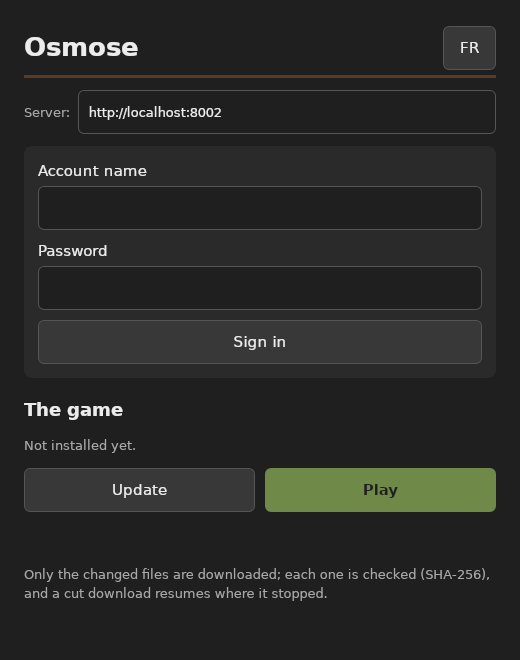
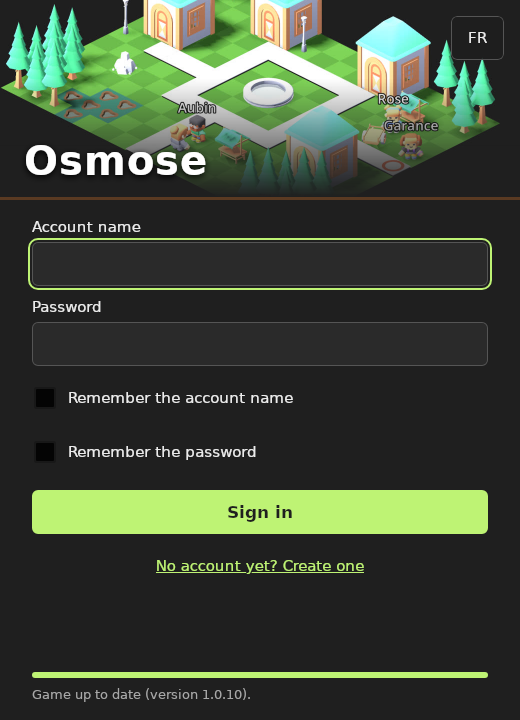
docs(rpg): sprint 51 done, the launcher's page, picture and decision (T20)

diff --git a/projects/rpg/README.md b/projects/rpg/README.md
@@ -4,7 +4,7 @@
 
 Un RPG tactique au tour par tour, dans l'esprit de Dofus et de Wakfu, écrit de zéro : aucun code, aucun nom, aucune image d'Ankama (D54). Six sprints : les règles du combat (sprint 45, ce dossier), le combat isométrique dans Godot 4 (46), le serveur de comptes et de personnages (47), la création de personnage (48), la ville d'accueil et ses PNJ (49), le launcher en Rust et les exécutables (50). Solo d'abord ; le multijoueur viendra plus tard, sur ces mêmes règles.
 
-*A turn-based tactical RPG in the style of Dofus and Wakfu, written from scratch. Sprint 50: a Rust launcher (Tauri) that signs in, updates the game file by file from a versioned SHA-256 manifest, resumes cut downloads with HTTP ranges and starts the game with the token; unsigned packages for Windows, macOS and Linux built by the CI; a video and an architecture diagram on the project page. Sprint 49: a welcome town built from Kenney's Fantasy Town Kit, walked with a click along the shortest path, three inhabitants with bilingual dialogues and choices described in data, the character's place saved on the server, a gate to a training fight. Sprint 48: character creation with three classes described in data (characteristics and spells, balanced by simulation), twelve looks and seven outfit colours (a palette shader), checked by the server. Sprint 47: an ASP.NET Core server for accounts and characters (JWT, PBKDF2 password hashes, rate limit, EF Core and PostgreSQL, OpenAPI, Docker), and the game's login and character screen, tested end to end against it, with an offline mode. Sprint 46: a Godot 4 C# desktop client (isometric 3D board, Kenney's free animated models, mouse and keyboard play against the AI, a self-test that plays a whole fight through the controls, builds for Windows, macOS and Linux). Sprint 45: the combat rules in a deterministic C# library (isometric grid, action and movement points, A* paths, exact line of sight, spells, initiative, an AI), described by data files, recorded fights that replay roll for roll on Linux, Windows and macOS, and a terminal simulator.*
+*A turn-based tactical RPG in the style of Dofus and Wakfu, written from scratch. Sprint 51: the launcher redone: it updates the game by itself, an account name, a password and "Sign in" (which starts the game), remembering the name and the password (in the system's credential store), sign-up, the server hidden, a banner of the village. Sprint 50: a Rust launcher (Tauri) that signs in, updates the game file by file from a versioned SHA-256 manifest, resumes cut downloads with HTTP ranges and starts the game with the token; unsigned packages for Windows, macOS and Linux built by the CI; a video and an architecture diagram on the project page. Sprint 49: a welcome town built from Kenney's Fantasy Town Kit, walked with a click along the shortest path, three inhabitants with bilingual dialogues and choices described in data, the character's place saved on the server, a gate to a training fight. Sprint 48: character creation with three classes described in data (characteristics and spells, balanced by simulation), twelve looks and seven outfit colours (a palette shader), checked by the server. Sprint 47: an ASP.NET Core server for accounts and characters (JWT, PBKDF2 password hashes, rate limit, EF Core and PostgreSQL, OpenAPI, Docker), and the game's login and character screen, tested end to end against it, with an offline mode. Sprint 46: a Godot 4 C# desktop client (isometric 3D board, Kenney's free animated models, mouse and keyboard play against the AI, a self-test that plays a whole fight through the controls, builds for Windows, macOS and Linux). Sprint 45: the combat rules in a deterministic C# library (isometric grid, action and movement points, A* paths, exact line of sight, spells, initiative, an AI), described by data files, recorded fights that replay roll for roll on Linux, Windows and macOS, and a terminal simulator.*
 
 ## Les règles
 - **Le plateau** est une grille de cases dessinées en losanges (vue isométrique). On se déplace vers l'une des quatre cases qui partagent un côté ; toutes les distances se comptent en pas, donc une portée dessine un losange autour du lanceur. Trois terrains : le sol, les obstacles (ni passage ni vue) et les trous (pas de passage, mais les sorts passent au-dessus).
@@ -31,7 +31,7 @@ godot --path godot -- --lang fr            # options : --server URL, --offline, 
 ```
 Le jeu s'ouvre sur l'écran de connexion : créer un compte ou se connecter, puis créer un personnage (un nom, l'une des 12 apparences, une classe et l'une des 7 couleurs de tenue ; le modèle, repeint, tourne à côté du formulaire) et le choisir. On arrive au village de Clairval : un clic fait marcher par le plus court chemin (montré en jaune), un clic sur un habitant y mène et ouvre la conversation (réponses au clic ou aux touches 1 à 4), la porte est et Garance mènent au combat d'entraînement ; à la fin du combat, « Retour en ville », et « Personnages » ramène à la liste. Sans serveur, « Jouer hors ligne » mène au village avec l'héroïne du scénario. Ou sans rien installer : les exécutables Windows, macOS et Linux produits par la CI (artefacts du workflow `rpg`, non signés : Windows et macOS avertissent au premier lancement).
 
-**Le launcher** (`launcher/`, Rust et Tauri) : paquets `rpg-launcher-*` des artefacts de la CI (`.deb` et AppImage, installeur Windows, `.dmg`), non signés eux aussi. Il se connecte au serveur, compare le jeu installé au manifeste publié (taille et SHA-256 de chaque fichier), ne télécharge que les fichiers modifiés, reprend un téléchargement coupé, vérifie chaque fichier avant de remplacer l'ancien, puis lance le jeu avec le jeton (variables `RPG_SERVER` et `RPG_TOKEN` : le jeu s'ouvre directement sur les personnages). Pour publier une version en local :
+**Le launcher** (`launcher/`, Rust et Tauri) : paquets `rpg-launcher-*` des artefacts de la CI (`.deb` et AppImage, installeur Windows, `.dmg`), éditeur « Osmose Team », non signés eux aussi. À l'ouverture, il met le jeu à jour tout seul : il compare le jeu installé au manifeste publié (taille et SHA-256 de chaque fichier), ne télécharge que les fichiers modifiés, reprend un téléchargement coupé et vérifie chaque fichier. La fenêtre ne demande que le nom de compte et le mot de passe : « Se connecter » attend la fin de la mise à jour puis lance le jeu avec le jeton (variables `RPG_SERVER` et `RPG_TOKEN` : le jeu s'ouvre directement sur les personnages). Deux cases mémorisent le nom (fichier `launcher.json` du dossier de configuration) et le mot de passe (gestionnaire d'identifiants de Windows, trousseau de macOS, Secret Service sous Linux ; jamais dans un fichier). Un lien permet de créer un compte. L'adresse du serveur n'est plus affichée : `RPG_SERVER`, ou `"server"` dans `launcher.json`, la change. Pour publier une version en local :
 ```sh
 godot --headless --path godot --export-release Linux               # dans godot/build/linux
 cargo run --manifest-path launcher/Cargo.toml -p rpg-launcher-core --bin rpg-manifest -- godot/build/linux 1.0.0
@@ -93,6 +93,8 @@ scripts/smoke.sh http://localhost:8002     # contre docker compose : de l'inscri
 La clé qui signe les jetons vient de `Jwt__Key` (base64, 32 octets, variable d'environnement ; `RPG_JWT_KEY` pour docker compose). Sans clé, le serveur en tire une au démarrage, et les jetons ne survivent pas à un redémarrage.
 
 ## Tests
+Sprint 51 : 7 tests Rust de plus (rien n'est mémorisé sans le demander, le nom et le mot de passe reviennent et le mot de passe mémorisé suffit, décocher oublie, un autre compte fait oublier le premier, un mauvais mot de passe ne mémorise rien, un gestionnaire d'identifiants verrouillé n'empêche pas de jouer, l'inscription et ses refus, l'ordre de choix du serveur) ; 2 tests Playwright de la page du launcher, sur les cinq navigateurs, avec un faux Tauri (mise à jour dès l'ouverture, cases pré-cochées, refus traduits, mot de passe vérifié sur la page avant l'inscription, « Se connecter » qui attend la mise à jour puis lance, les deux langues, tout tient dans la fenêtre).
+
 Sprint 50 : 13 tests Rust (`cargo test`) : premier téléchargement complet puis plus rien, seuls les fichiers modifiés ensuite et les anciens retirés, fichier abîmé sur le disque retéléchargé, téléchargement coupé repris là où il s'était arrêté (avec un serveur qui ignore la reprise aussi), fichier qui ne correspond pas à son empreinte jamais installé, manifeste qui tenterait d'écrire hors du dossier refusé, exécutable rendu exécutable, progression, et contre un vrai serveur HTTP : reprise par `Range` (206), connexion et ses refus, jeton passé par l'environnement ; clippy au niveau `all`, avertissements bloquants. 3 tests du serveur (fichiers servis avec reprise, rien hors du dossier, jeton du launcher). Dans la CI : le launcher compilé, testé et empaqueté sur les trois systèmes ; puis, de bout en bout, l'export Linux du jeu publié par docker compose, installé par `rpg-update`, mis à jour sans rien télécharger, réparé après un fichier abîmé, et qui joue un combat entier depuis le dossier installé. Playwright : la fiche (vidéo, schéma, capture du launcher) sur les cinq navigateurs, avec axe.
 
 Sprint 49 : 4 tests de plus dans `Rpg.Core` (le village cohérent, la carte lue depuis ses lignes, villes et dialogues incohérents refusés : maison incomplète, habitant emmuré, porte vers un combat inconnu, réplique inatteignable, boucle sans fin), 7 dans `Rpg.Client` (chemin le plus court autour des maisons et de l'eau, clic sur un habitant jusqu'à son côté le plus proche, conversation, porte et Garance vers le combat, retour à la position gardée, tour complet du village), 2 du serveur (position gardée si l'on peut y marcher, réponse sans champ calculé). Dans la CI, sur les trois systèmes, `--town-selftest` parle à chaque habitant, vérifie que chaque réplique et ses réponses sont celles à l'écran, passe la porte et joue le combat ; contre le serveur, `--lobby-selftest` fait tout le chemin (inscription, personnage, village, position enregistrée et relue sur le serveur, combat). 3 mutations, 3 attrapées (la troisième après un test ajouté).

diff --git a/projects/rpg/DECISIONS.md b/projects/rpg/DECISIONS.md
@@ -105,3 +105,9 @@ Le choix du projet et de sa pile (Godot 4 en C#, règles partagées, ASP.NET Cor
 **Choix :** « Osmose » est le nom visible partout : titre de l'écran de connexion, fenêtre et paquets du launcher, application Godot (fenêtre, `.app` sur macOS), API (OpenAPI), fiche du portfolio (« Osmose, RPG tactique »). Les identifiants internes ne changent pas (dossier `projects/rpg`, `Rpg.Core`, exécutables `rpg.x86_64` et `rpg.exe`, routes de l'API).
 **Pourquoi :** renommer les identifiants casserait les chemins, les workflows et les enregistrements de combats sans rien apporter au joueur.
 **Éditeur (choix de Charles) :** « Osmose Team » comme éditeur et titulaire du copyright, dans l'installeur et les paquets du launcher (Tauri `publisher`, `copyright`) et dans les métadonnées des exécutables du jeu (Windows : société, description, copyright ; macOS : copyright). Ce n'est pas une signature : Windows (SmartScreen) et macOS (Gatekeeper) avertissent toujours au premier lancement. Une signature reconnue demanderait un certificat délivré à une identité vérifiée (Azure Trusted Signing ou certificat OV pour Windows, compte Apple Developer pour macOS), au nom de la personne ou de la structure vérifiée ; écartée pour l'instant.
+
+## T20. Le launcher refait : se connecter, c'est jouer (sprint 51, d'après le questionnaire de Charles)
+**Choix :** la mise à jour se lance d'elle-même à l'ouverture ; la fenêtre se réduit au nom de compte, au mot de passe et à « Se connecter », qui attend la fin de la mise à jour et lance le jeu ; l'inscription est un second mode du même formulaire (avec confirmation du mot de passe). Le nom mémorisé va dans `launcher.json` (dossier de configuration), le mot de passe dans le gestionnaire d'identifiants du système (crate `keyring` : Credential Manager, Keychain, Secret Service), jamais dans un fichier ni dans la page : un champ vide signifie « le mot de passe mémorisé », et c'est Rust qui le lit. Un gestionnaire verrouillé ou absent n'empêche pas de jouer : la page le signale. L'adresse du serveur sort de l'interface (`RPG_SERVER` ou `launcher.json`).
+**Pourquoi :** Charles trouvait « Mettre à jour », « Se connecter » et « Jouer » redondants, et le serveur inutile à montrer ; mémoriser un mot de passe en clair serait une faute.
+**Alternatives :** chiffrer le mot de passe dans un fichier avec une clé du launcher (la clé serait dans le programme : aucune protection réelle) ; un jeton de longue durée à la place du mot de passe (mieux, mais il faut un mécanisme de rafraîchissement côté serveur : à prévoir avec le multijoueur).
+**Limites :** sous Linux, il faut un Secret Service (GNOME Keyring, KWallet) ; sans lui, le mot de passe ne peut pas être mémorisé (le nom, si).

diff --git a/projects/rpg/REVIEW.md b/projects/rpg/REVIEW.md
@@ -18,6 +18,8 @@ Claude y ajoute aussi ses constats au fil de l'eau, préfixés « (Claude) » ; 
 
 > Cases cochées par Claude le 9 octobre 2026, à la demande explicite de Charles (« tout marche, tu peux valider »), pour les sprints 45 à 50 (règles, client Godot, serveur, création de personnage, village, launcher et fiche), après son essai du launcher et du jeu sous Windows.
 
+- [ ] Sprint 51 : le launcher chez toi (paquet de la CI) : connexion, inscription, cases « mémoriser » (le mot de passe revient-il au lancement suivant ?), mise à jour automatique ; et `launcher/core/src/account.rs` (ce qui est mémorisé, où, et ce qui est oublié).
+
 ## Constats
 
 | Date | Fichier | Problème trouvé | Correction |
@@ -57,4 +59,7 @@ Claude y ajoute aussi ses constats au fil de l'eau, préfixés « (Claude) » ; 
 | 2026-10-09 | nom du jeu | Demandé par Charles : le jeu s'appelle Osmose | (Claude) Nom visible changé (jeu, launcher, paquets, API, fiche), identifiants internes gardés (T19) ; captures de l'écran de connexion et du launcher refaites |
 | 2026-10-09 | `compose.yaml` (volume `/updates`) | (Claude) Vu en préparant l'essai de Charles : quand `godot/build` n'existe pas, Docker le crée au nom de root et l'export ou le téléchargement des artefacts ne peut plus y écrire | Noté dans le README (créer le dossier avant) ; dossier rendu à l'utilisateur |
 | 2026-10-09 | éditeur | Demandé par Charles : signer « au nom de Osmose Team » | (Claude) Pas de vraie signature sans certificat d'une identité vérifiée ; sur son choix, « Osmose Team » comme éditeur et copyright du launcher et des exécutables du jeu (T19), les avertissements de premier lancement restent documentés |
+| 2026-10-09 | `launcher/ui/style.css` | (Claude) Vu sur la capture : le champ « Confirmer le mot de passe » s'affichait en mode connexion (`display: grid` des libellés l'emportait sur `hidden`), et la fenêtre coupait la barre de mise à jour | `[hidden] { display: none !important }`, fenêtre de 720 px ; Playwright vérifie les deux |
+| 2026-10-09 | `launcher/ui/main.js` | (Claude) Tailles affichées « 3.0 Mo » en français | Virgule décimale en français, testée |
+| 2026-10-09 | `launcher/ui` | (Claude) La page du launcher n'avait aucun test : sa logique (ordre mise à jour, connexion, lancement) n'était vérifiée nulle part | Playwright avec un faux `window.__TAURI__`, sur les cinq navigateurs |
 | | | | |

diff --git a/scrum/sprint-51.md b/scrum/sprint-51.md
@@ -6,8 +6,12 @@
 
 | Story | Points | État |
 |---|---|---|
-| En tant que joueur, je me connecte et le jeu se lance (rpg) : nom de compte, mot de passe et « Se connecter » seulement ; la connexion vérifie la mise à jour, télécharge si besoin, puis lance le jeu avec le jeton ; mise à jour vérifiée dès l'ouverture ; adresse du serveur cachée (réglage avancé) ; présentation avec une image du jeu ; tests Rust et capture. | 2 | À faire |
-| En tant que joueur, le launcher se souvient de moi et je peux m'inscrire (rpg) : cases « mémoriser le nom » et « mémoriser le mot de passe » (gestionnaire d'identifiants du système, jamais en clair sur le disque) ; inscription depuis le launcher ; tests. | 1 | À faire |
+| En tant que joueur, je me connecte et le jeu se lance (rpg) : nom de compte, mot de passe et « Se connecter » seulement ; la connexion vérifie la mise à jour, télécharge si besoin, puis lance le jeu avec le jeton ; mise à jour vérifiée dès l'ouverture ; adresse du serveur cachée (réglage avancé) ; présentation avec une image du jeu ; tests Rust et capture. | 2 | Fait |
+| En tant que joueur, le launcher se souvient de moi et je peux m'inscrire (rpg) : cases « mémoriser le nom » et « mémoriser le mot de passe » (gestionnaire d'identifiants du système, jamais en clair sur le disque) ; inscription depuis le launcher ; tests. | 1 | Fait |
+
+**Résultat :** le launcher se résume à se connecter : mise à jour automatique à l'ouverture, nom de compte, mot de passe, « Se connecter » qui attend la mise à jour et lance le jeu, cases pour mémoriser le nom et le mot de passe (gestionnaire d'identifiants du système), création de compte, serveur caché, bannière du village (T20).
+
+**Tests :** 7 tests Rust de plus (20 en tout), 2 tests Playwright de la page sur les cinq navigateurs avec un faux Tauri. **Trouvé en route :** un champ caché qui s'affichait, une fenêtre trop courte, des décimales à l'anglaise, une page sans aucun test, une bannière avec du texte anglais (mode de capture `--shot banner` ajouté au jeu).
 
 ## Rétro (Charles)
 - Ce qui a marché :
